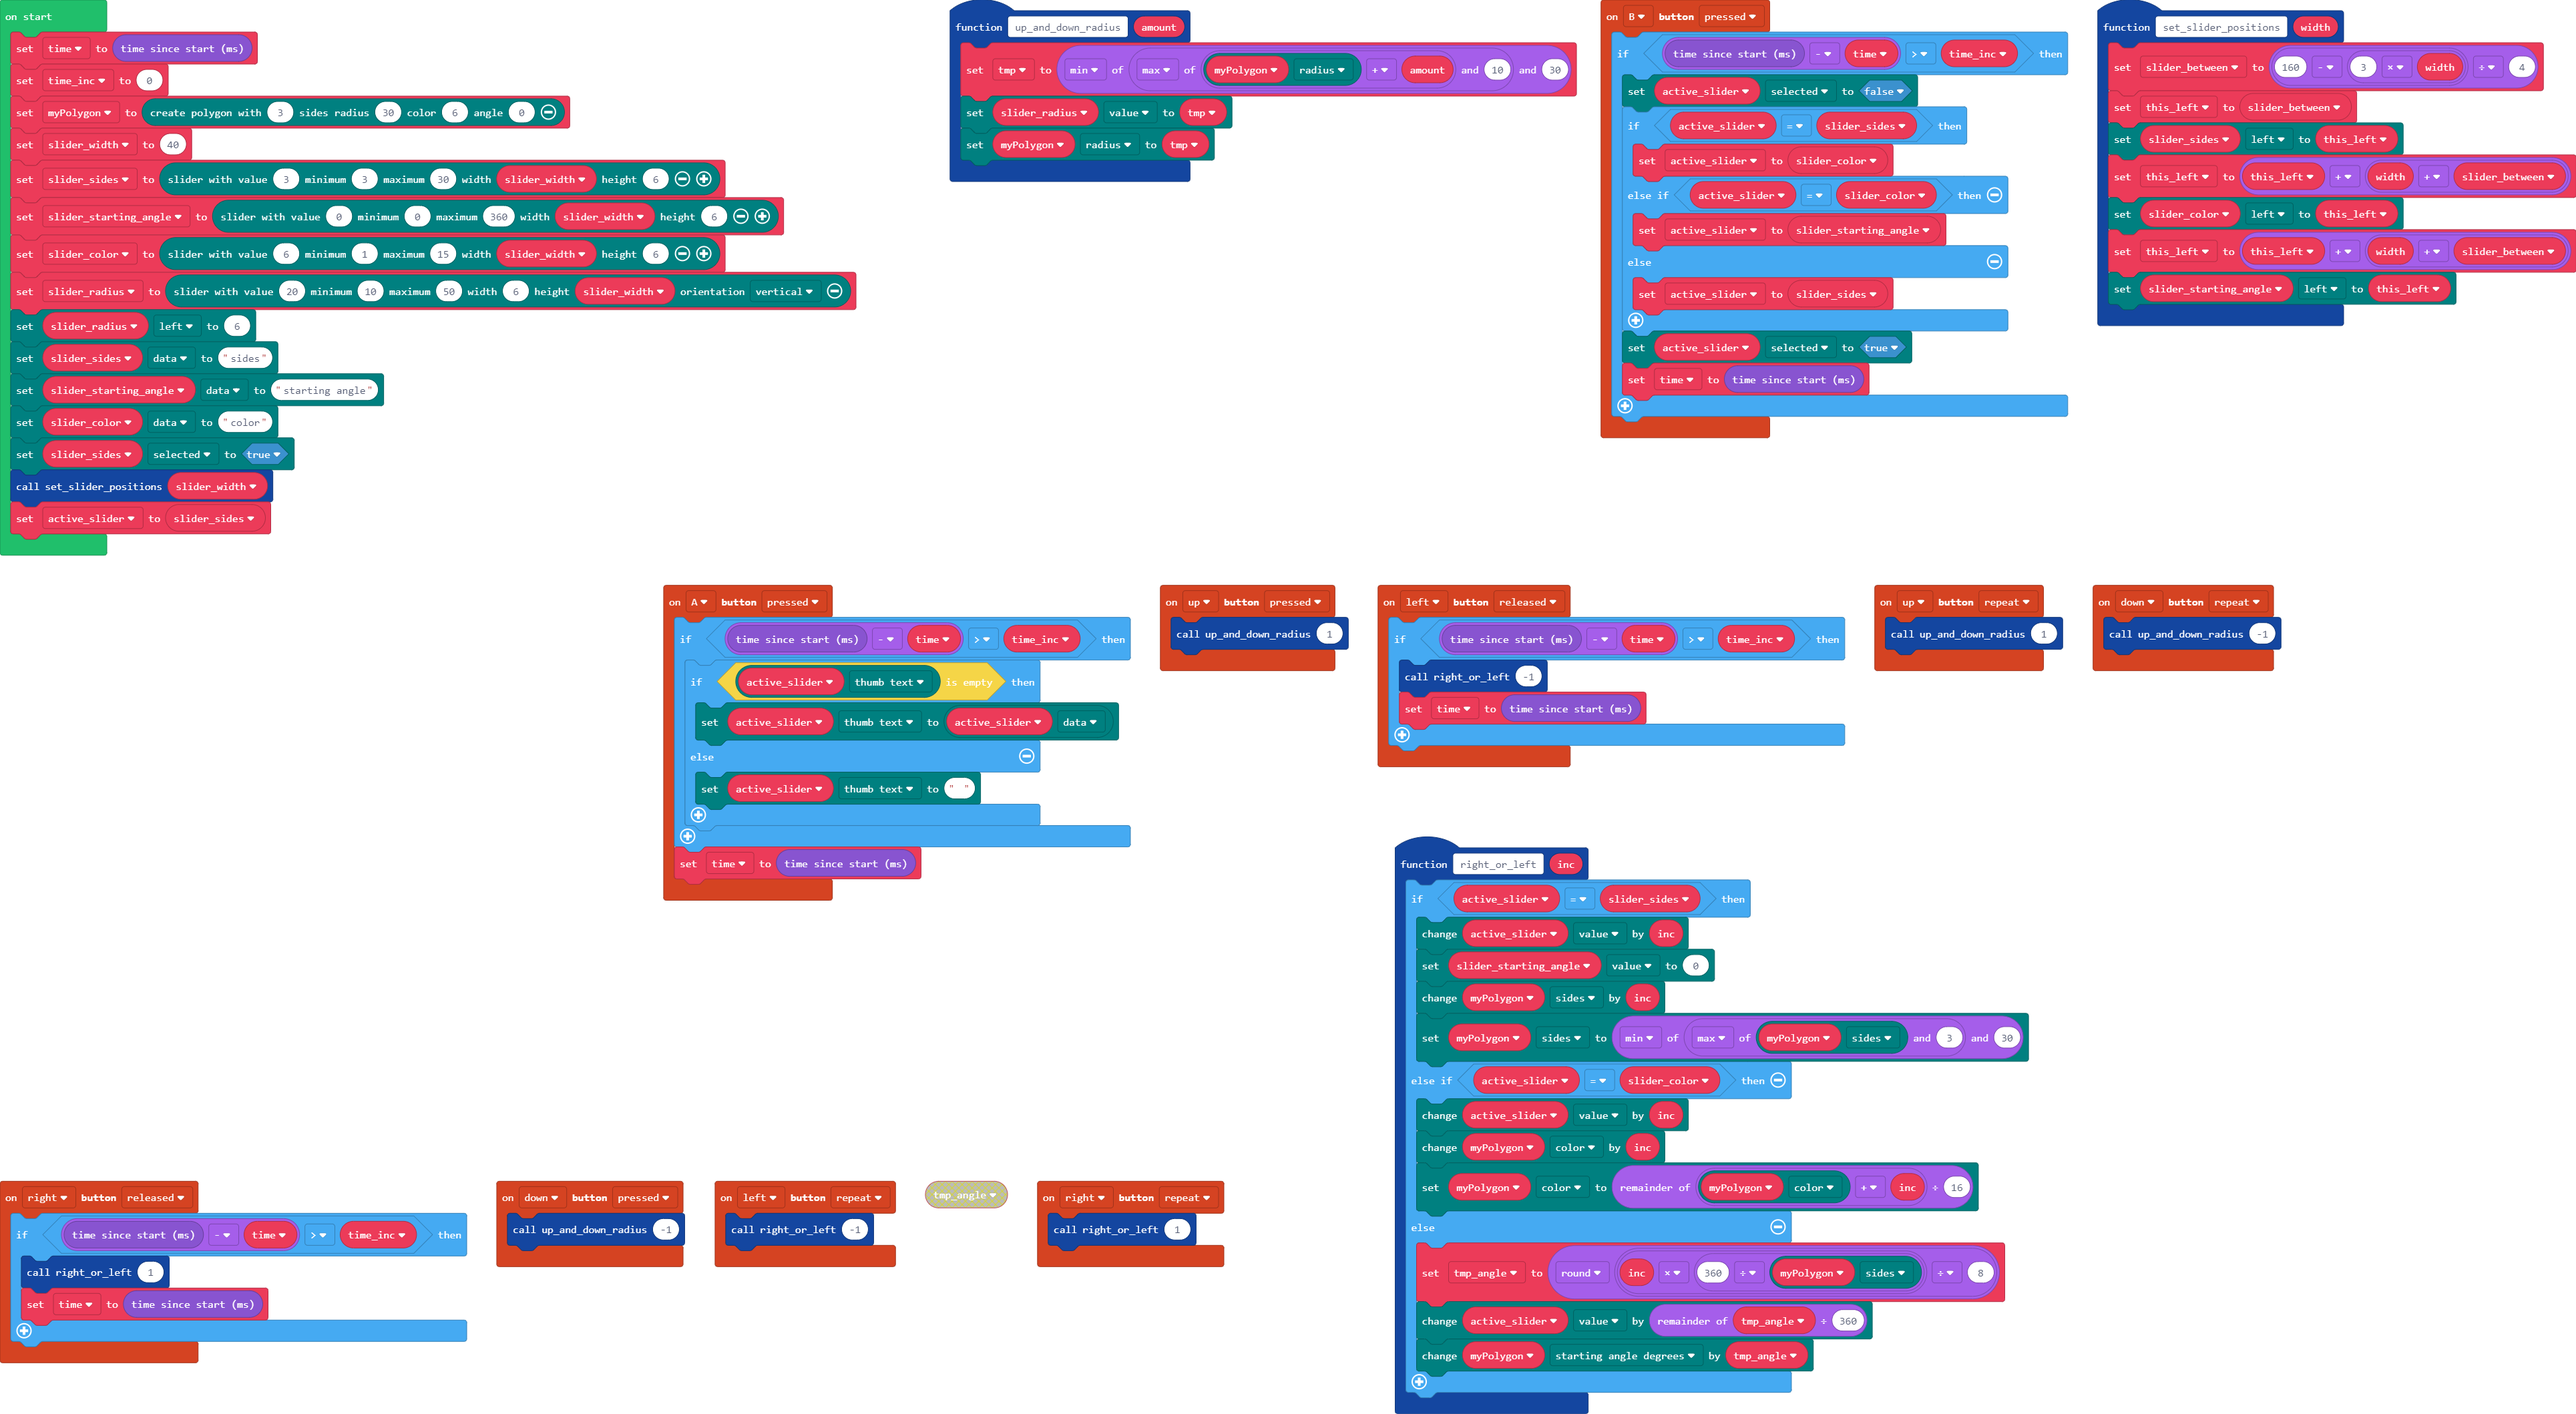
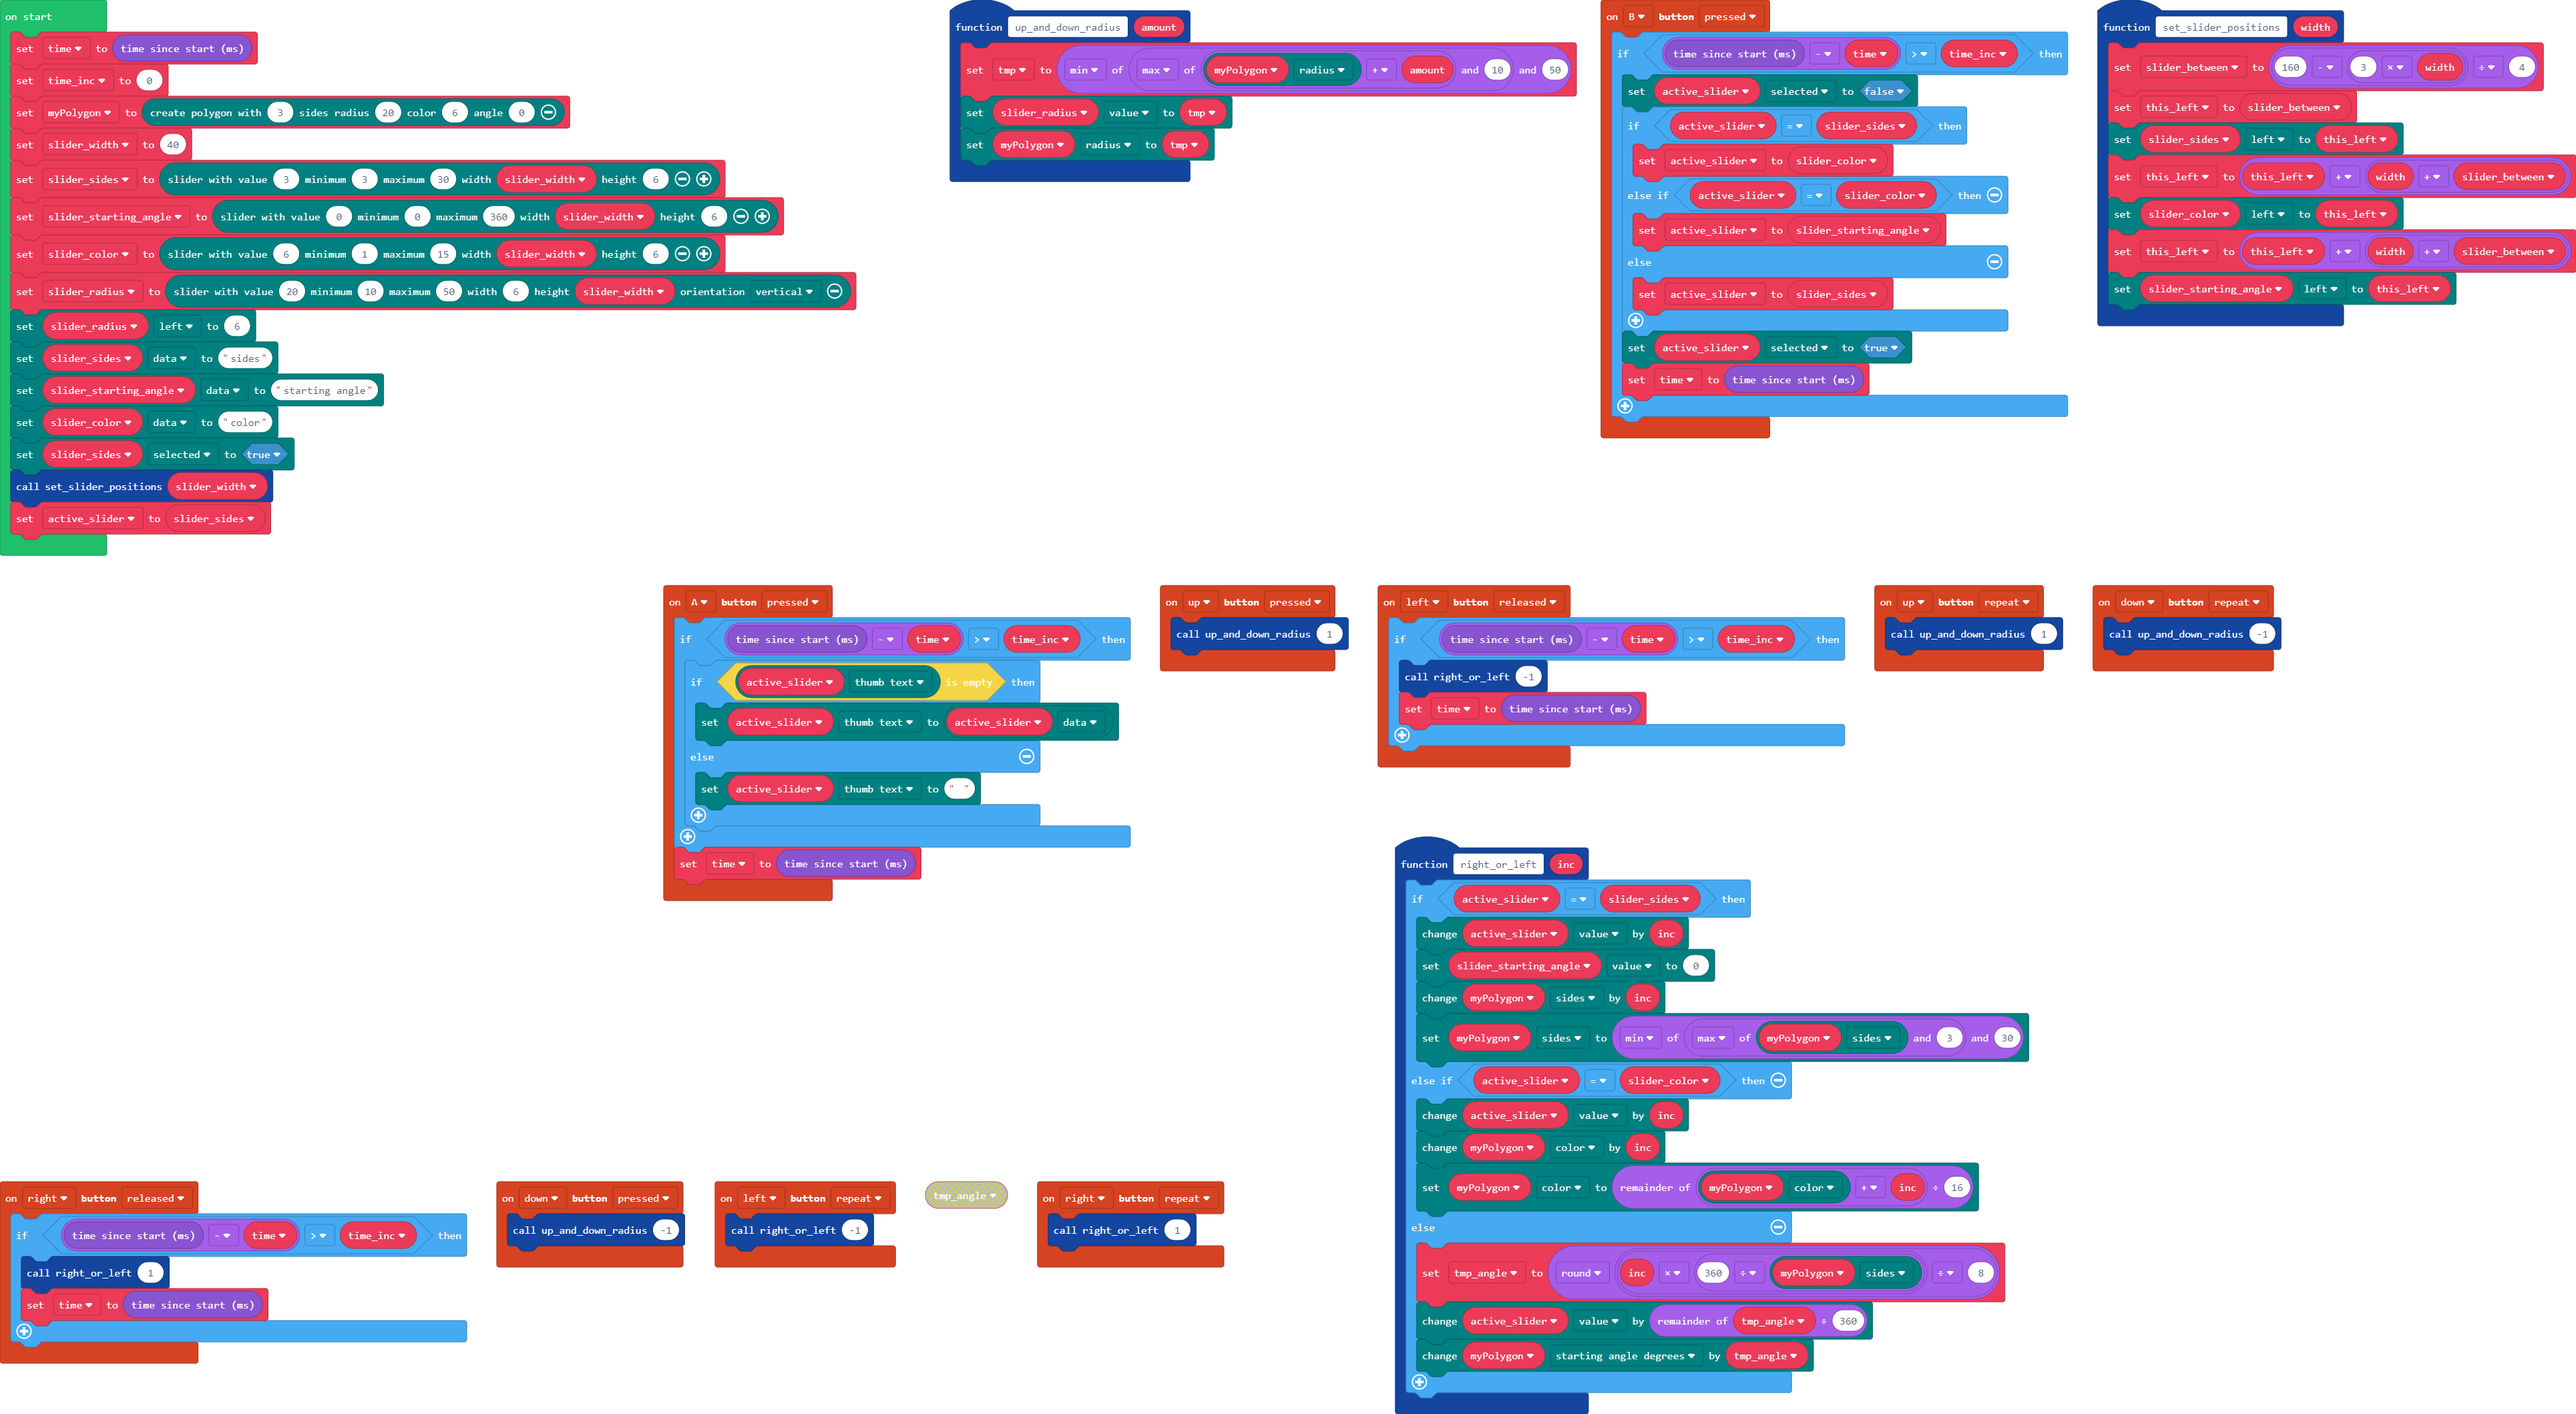
Update main.blocks, main.ts

diff --git a/main.ts b/main.ts
@@ -37,7 +37,7 @@ controller.left.onEvent(ControllerButtonEvent.Released, function () {
     }
 })
 function up_and_down_radius (amount: number) {
-    tmp = Math.min(Math.max(myPolygon.radius + amount, 10), 30)
+    tmp = Math.min(Math.max(myPolygon.radius + amount, 10), 50)
     slider_radius.value = tmp
     myPolygon.radius = tmp
 }
@@ -96,7 +96,7 @@ let time_inc = 0
 let time = 0
 time = game.runtime()
 time_inc = 0
-myPolygon = polygon.createPolygon(3, 30, 6, 0)
+myPolygon = polygon.createPolygon(3, 20, 6, 0)
 let slider_width = 40
 slider_sides = slider.create(3, 3, 30, slider_width, 6)
 slider_starting_angle = slider.create(0, 0, 360, slider_width, 6)
